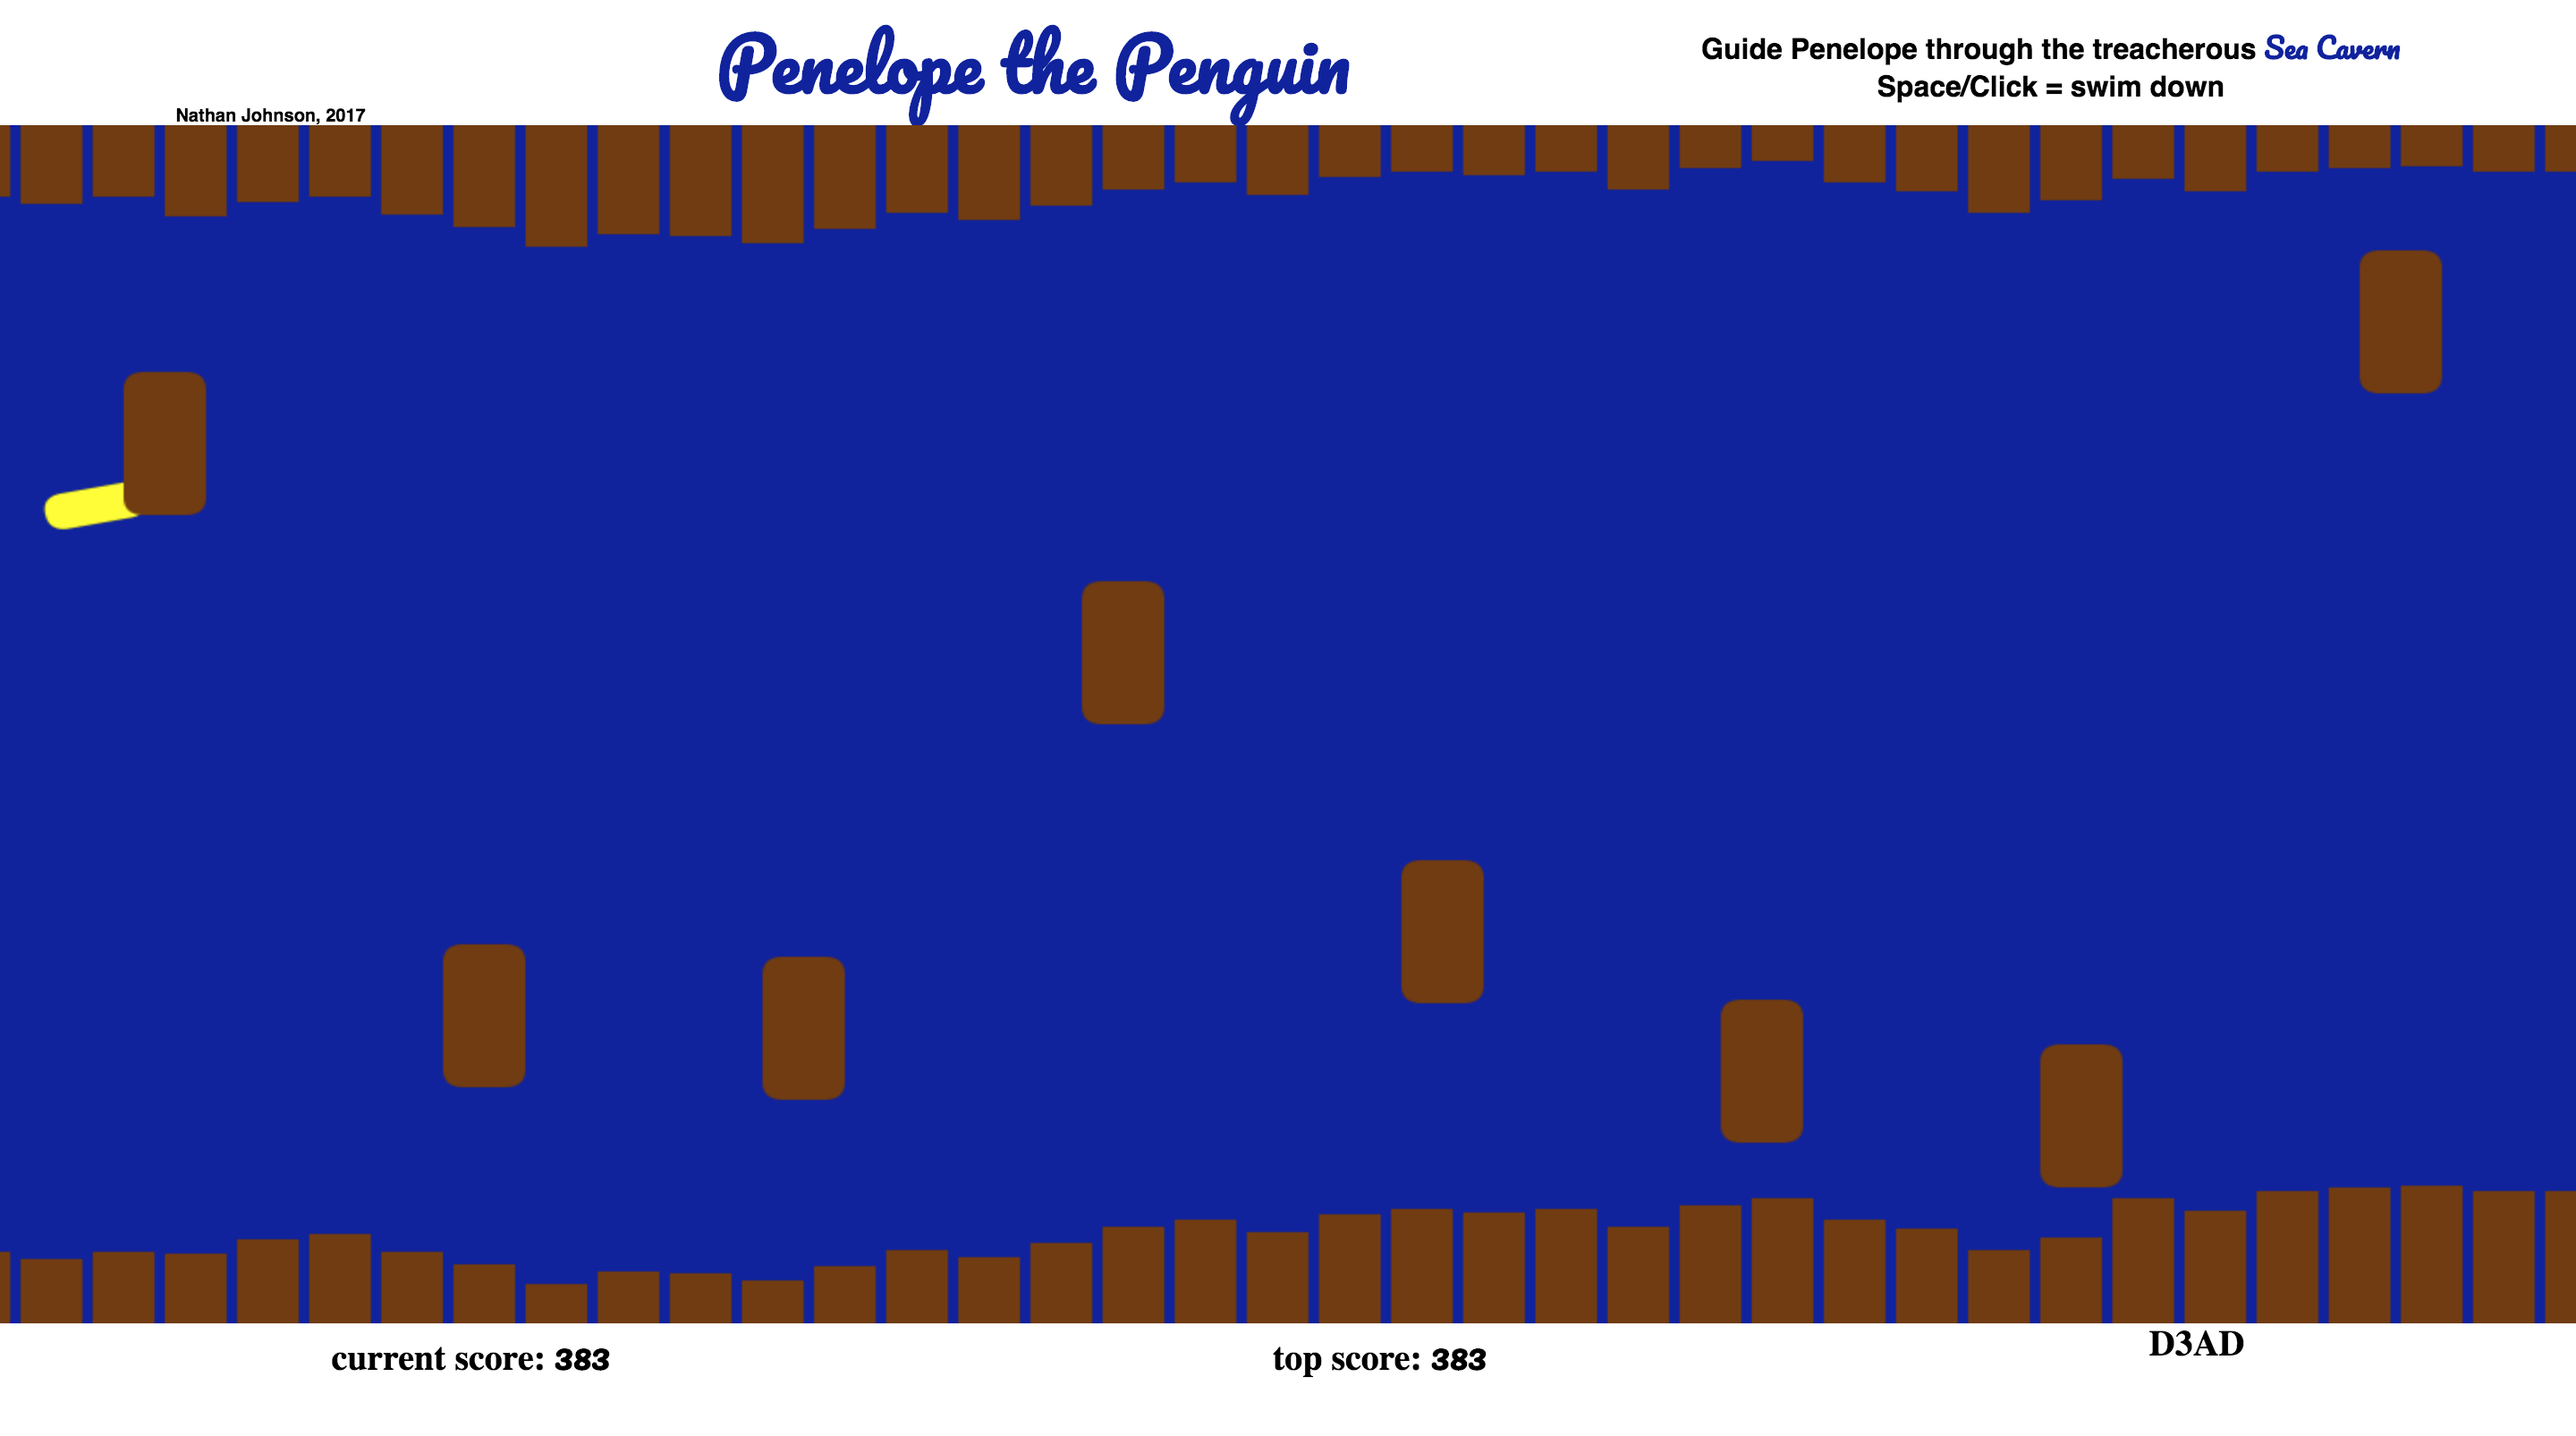
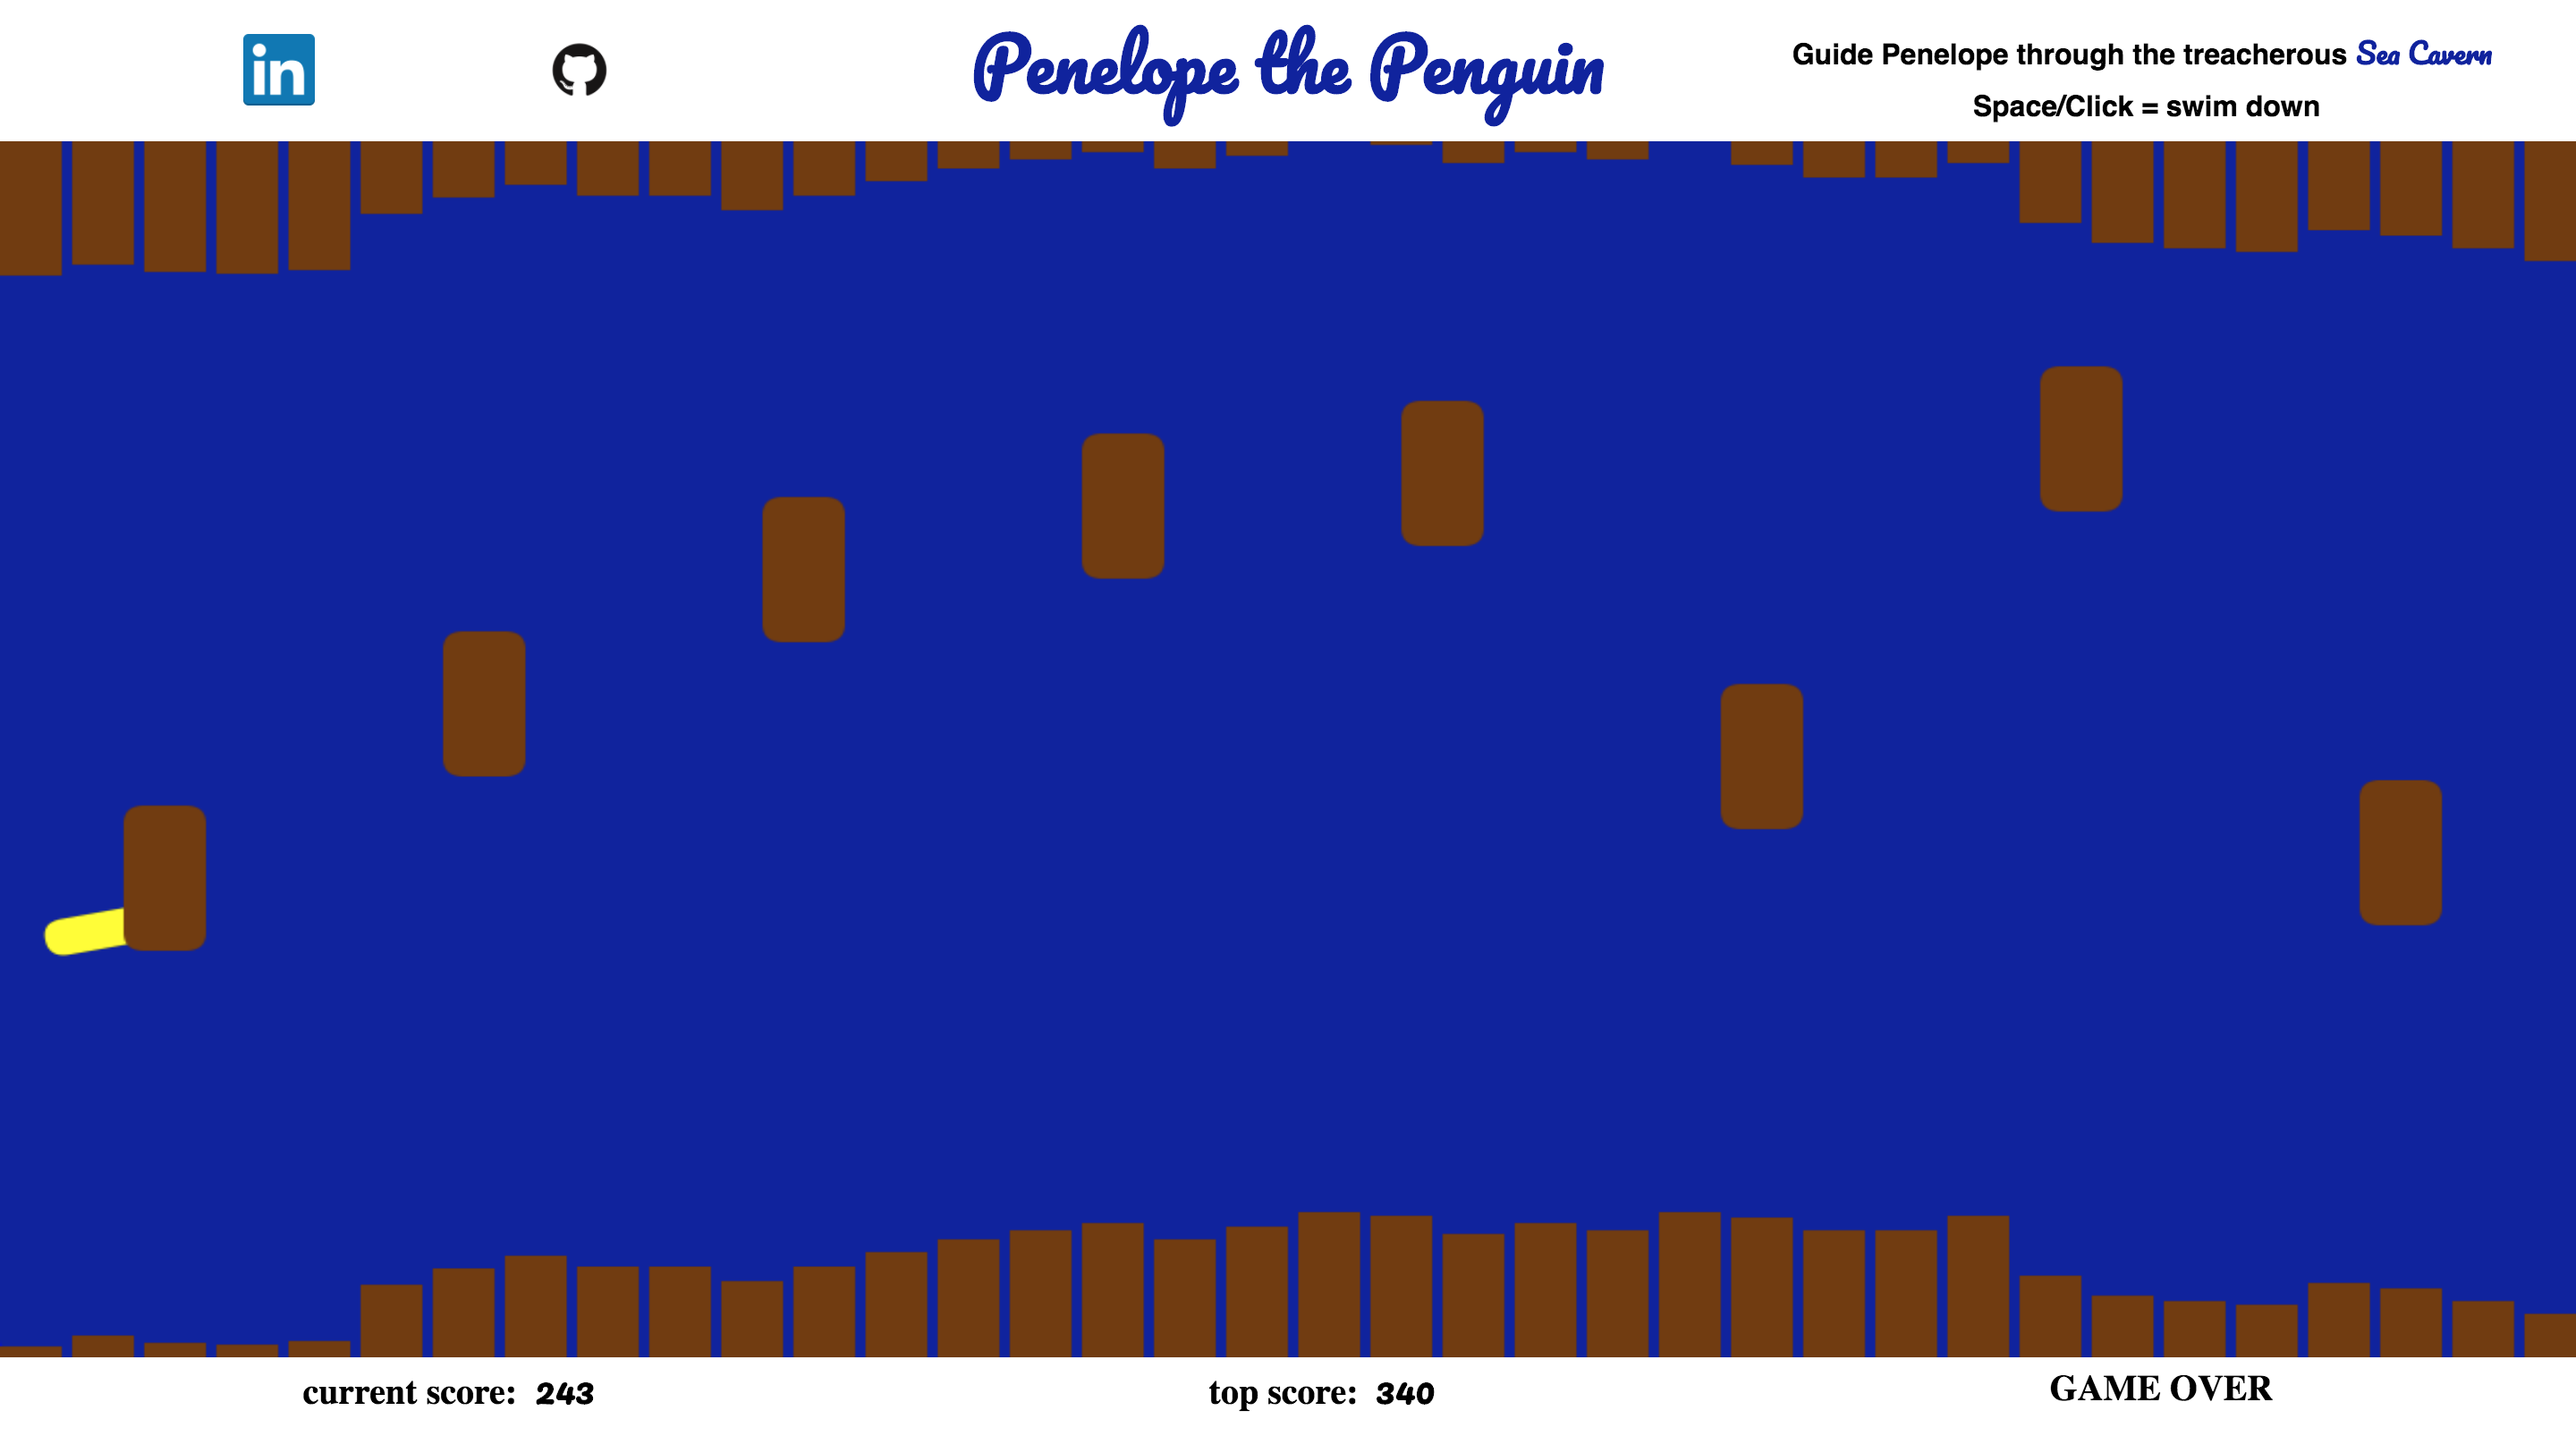
Add thumbnails and styling

diff --git a/bundle.js b/bundle.js
@@ -86,7 +86,7 @@
 
 
 	// module
-	exports.push([module.id, "* {\n  padding: 0; margin: 0;\n}\n\nbody {\n  display: flex;\n  flex-direction: column;\n}\n\nstrong {\n  text-decoration: italic;\n  font-weight: bolder;\n  color: #0C1BA0;\n  margin: 5px;\n  padding-bottom: 3px;\n  font-family: 'Pacifico';\n  /*align-self: center;*/\n}\n\n#by {\n  font-size: 10px;\n  font-weight: bold;\n  font-family: sans-serif;\n  color: black;\n  align-self: flex-end;\n  margin-left: auto;\n}\n\n#controls {\n  /*font-size: 16px;*/\n  font-weight: bold;\n  font-family: sans-serif;\n}\n\n#description {\n  display: flex;\n  flex-direction: column;\n  align-items: center;\n  margin-right: auto;\n}\n\n#desc-body {\n  font-weight: bold;\n  font-family: sans-serif;\n  display: flex;\n  align-items: center;\n}\n\n#header {\n  display: flex;\n  /*justify-content: space-around;*/\n  align-items: center;\n\n}\n\n#header > * {\n  flex: 1;\n  display: flex;\n  justify-content: center;\n}\n\n#title {\n  font-size: 40px;\n  font-weight: bold;\n  color: #0C1BA0;\n  font-family: 'Pacifico';\n  justify-content: center;\n}\n#myCanvas {\n  background: blue;\n  /*display: block;*/\n  width: 100%;\n  height: 670px;\n  display: flex;\n  flex-direction: column;\n  margin: 0 auto;\n}\n\n#scorecontainer {\n  display: flex;\n  justify-content: space-around;\n}\n\n#scorecontainer * {\n  font-weight: bold;\n  color: black;\n  font-size: 20px;\n}\n", ""]);
+	exports.push([module.id, "* {\n  padding: 0; margin: 0;\n}\n\nbody {\n  display: flex;\n  flex-direction: column;\n}\n\nstrong {\n  text-decoration: italic;\n  font-weight: bolder;\n  color: #0C1BA0;\n  margin: 5px;\n  padding-bottom: 3px;\n  font-family: 'Pacifico';\n}\n\n#by {\n  font-size: 10px;\n  font-weight: bold;\n  font-family: sans-serif;\n  color: black;\n  display: flex;\n  flex-direction: column;\n  align-items: center;\n  /*align-self: flex-end;*/\n  margin-left: auto;\n}\n\n#controls {\n  /*font-size: 16px;*/\n  font-weight: bold;\n  font-family: sans-serif;\n}\n\n#description {\n  display: flex;\n  flex-direction: column;\n  align-items: center;\n  margin-right: auto;\n}\n\n#desc-body {\n  font-weight: bold;\n  font-family: sans-serif;\n  display: flex;\n  align-items: center;\n}\n\n#header {\n  display: flex;\n  align-items: center;\n\n}\n\n#header > * {\n  flex: 1;\n  display: flex;\n  justify-content: center;\n}\n\n#title {\n  font-size: 40px;\n  font-weight: bold;\n  color: #0C1BA0;\n  font-family: 'Pacifico';\n  justify-content: center;\n  padding-bottom: 9px;\n}\n#myCanvas {\n  background: blue;\n  /*display: block;*/\n  width: 100%;\n  height: 680px;\n  display: flex;\n  flex-direction: column;\n  margin: 0 auto;\n}\n\n#scorecontainer {\n  display: flex;\n  justify-content: space-around;\n  align-items: center;\n}\n\n#scorecontainer * {\n  font-weight: bold;\n  color: black;\n  font-size: 20px;\n}\n\n#thumbnails {\n  display: flex;\n  justify-content: space-around;\n  align-items: center;\n  width: 70%;\n}\n", ""]);
 
 	// exports
 
@@ -405,66 +405,6 @@
 
 	'use strict';
 
-	// var canvas = document.getElementById("myCanvas"),
-	// ctx, width, height,
-	//
-	// score = 0,
-	// best = 0,
-	//
-	// // penguin
-	// x = 60,
-	// y = canvas.height/2,
-	// dx = 0,
-	// dy = -7,
-	// penguinRadius = 25,
-	// swimPressed = false,
-	//
-	// currentState,
-	// states = {
-	//   splash: 0, game: 1, score: 2
-	// },
-	//
-	// penguin = [],
-	// walls = [];
-	//
-	// function main() {
-	//   canvas.document.createElement('canvas');
-	//
-	//   width = window.innerWidth;
-	//   height = window.innerHeight;
-	//
-	//   if (width >= 500) {
-	//     width = 320;
-	//     height = 480;
-	//     canvas.style.border = '1px solid #000';
-	//   }
-	//
-	//   canvas.width = width;
-	//   canvas.height = height;
-	//   ctx = canvas.getContext("2d");
-	//
-	//   document.body.appendChild(canvas);
-	//
-	//   var img = new Image();
-	//   img.onload = function() {
-	//     console.log("loading");
-	//   };
-	//   img.src = 'assets/penguin.pg';
-	// }
-	//
-	// function run() {
-	//
-	// }
-	// function update() {
-	//
-	// }
-	//
-	// function render() {
-	//
-	// }
-	//
-	// main();
-
 	var canvas = document.getElementById('myCanvas'),
 	    penguinCanvas = document.getElementById('penguin'),
 	    ctx = canvas.getContext("2d"),
@@ -473,7 +413,7 @@
 	    width: 50,
 	    height: 20,
 	    topSpeed: 5,
-	    acceleration: -0.2,
+	    acceleration: -0.25,
 	    img: null
 	},
 	    physics = {

diff --git a/lib/game.js b/lib/game.js
@@ -1,62 +1,3 @@
-// var canvas = document.getElementById("myCanvas"),
-// ctx, width, height,
-//
-// score = 0,
-// best = 0,
-//
-// // penguin
-// x = 60,
-// y = canvas.height/2,
-// dx = 0,
-// dy = -7,
-// penguinRadius = 25,
-// swimPressed = false,
-//
-// currentState,
-// states = {
-//   splash: 0, game: 1, score: 2
-// },
-//
-// penguin = [],
-// walls = [];
-//
-// function main() {
-//   canvas.document.createElement('canvas');
-//
-//   width = window.innerWidth;
-//   height = window.innerHeight;
-//
-//   if (width >= 500) {
-//     width = 320;
-//     height = 480;
-//     canvas.style.border = '1px solid #000';
-//   }
-//
-//   canvas.width = width;
-//   canvas.height = height;
-//   ctx = canvas.getContext("2d");
-//
-//   document.body.appendChild(canvas);
-//
-//   var img = new Image();
-//   img.onload = function() {
-//     console.log("loading");
-//   };
-//   img.src = 'assets/penguin.pg';
-// }
-//
-// function run() {
-//
-// }
-// function update() {
-//
-// }
-//
-// function render() {
-//
-// }
-//
-// main();
 
 var canvas = document.getElementById('myCanvas'),
 penguinCanvas = document.getElementById('penguin'),
@@ -69,7 +10,7 @@ penguin = {
   width: 50,
   height: 20,
   topSpeed: 5,
-  acceleration: -0.2,
+  acceleration: -0.25,
   img: null
 },
 

diff --git a/style.css b/style.css
@@ -14,7 +14,6 @@ strong {
   margin: 5px;
   padding-bottom: 3px;
   font-family: 'Pacifico';
-  /*align-self: center;*/
 }
 
 #by {
@@ -22,7 +21,10 @@ strong {
   font-weight: bold;
   font-family: sans-serif;
   color: black;
-  align-self: flex-end;
+  display: flex;
+  flex-direction: column;
+  align-items: center;
+  /*align-self: flex-end;*/
   margin-left: auto;
 }
 
@@ -48,7 +50,6 @@ strong {
 
 #header {
   display: flex;
-  /*justify-content: space-around;*/
   align-items: center;
 
 }
@@ -65,12 +66,13 @@ strong {
   color: #0C1BA0;
   font-family: 'Pacifico';
   justify-content: center;
+  padding-bottom: 9px;
 }
 #myCanvas {
   background: blue;
   /*display: block;*/
   width: 100%;
-  height: 670px;
+  height: 680px;
   display: flex;
   flex-direction: column;
   margin: 0 auto;
@@ -79,10 +81,18 @@ strong {
 #scorecontainer {
   display: flex;
   justify-content: space-around;
+  align-items: center;
 }
 
 #scorecontainer * {
   font-weight: bold;
   color: black;
   font-size: 20px;
+}
+
+#thumbnails {
+  display: flex;
+  justify-content: space-around;
+  align-items: center;
+  width: 70%;
 }

diff --git a/index.html b/index.html
@@ -9,7 +9,16 @@
 <body>
 
 <div id='header'>
-  <p id='by'>Nathan Johnson, 2017</p>
+  <div id='by'>
+    <div id='thumbnails'>
+      <a href="https://www.linkedin.com/in/nathan-johnson-e-i-t-66310941/" id='linkedin'>
+        <img src="./assets/linkedin.png" width='40' height='40' alt="">
+      </a>
+      <a href="https://github.com/NateDawg90" id='github'>
+        <img src="./assets/github.png" width='40' height='40' alt="">
+      </a>
+    </div>
+  </div>
   <p id='title'>Penelope the Penguin</p>
   <div id='description'>
     <div id='desc-body'>

diff --git a/README.md b/README.md
@@ -1,6 +1,6 @@
 # Penelope the Penguin
 
-[TuneHub.online][game] is a browser game created in Javascript by Nathan Johnson.
+[NateDawg90.github.io/dragonflyz][game] is a browser game created in Javascript by Nathan Johnson.
 
 ![Game Screen: ][game_screen]
 
@@ -51,9 +51,13 @@ This project was be implemented with the following technologies:
 - Vanilla JavaScript for overall structure and game logic,
 - Webpack to bundle and serve up the various scripts.
 
-In addition to the webpack entry file, there will be three scripts involved in this project:
+Constants are declared for penguin properties, such as dimensions and speed vectors. Physics properties are also defined for terminal velocity, gravity and friction coefficients. As for the obstacles and walls, their width, height, separation, and various other properties are defined.   
 
+Functionally, the game first creates the background and the penguin and resets the game data. It then creates the initial walls and runs a draw function that keeps calling itself until the game has been ended (the player dies). Obstacles are generated randomly and given a constant velocity with which to move across the screen.
 
+A key listener listens for the user's input, and if it is given, the penguin moves vertically in a direction reverse to gravity. Otherwise, gravity carries it up.
+
+a checkForImpact() function checks to see if the penguin has collided with any of the obtacles or walls. If so, an endgame state is reached. A death text, randomly generated, will flash on the screen, and the game will stop moving. Another user input restarts the game.
 
 ### Implementation Timeline
 
